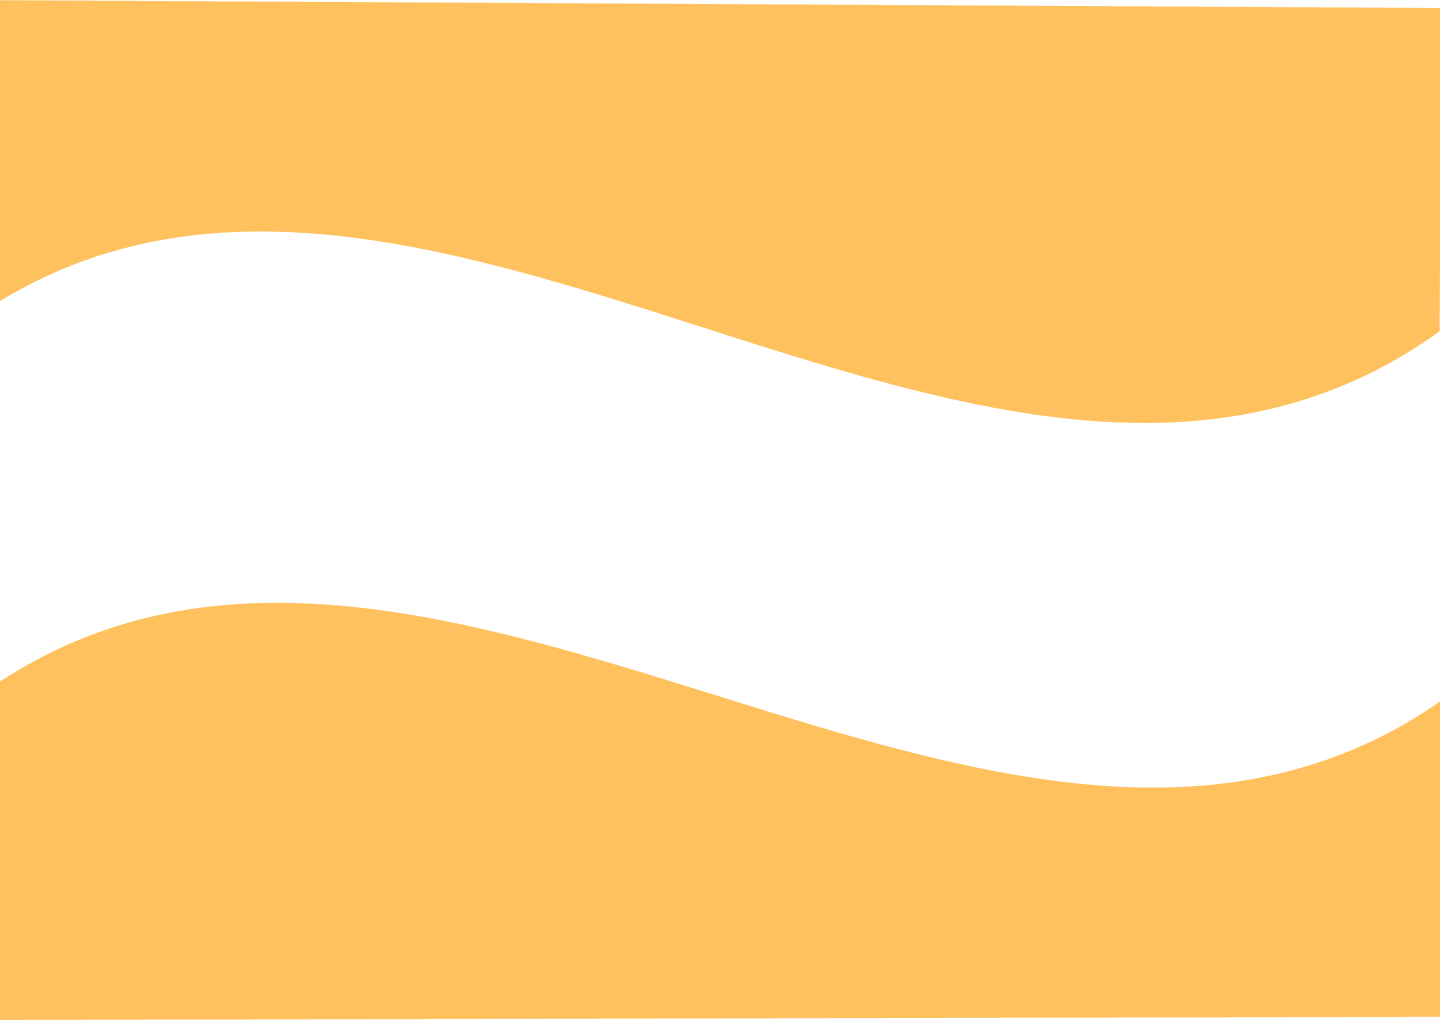
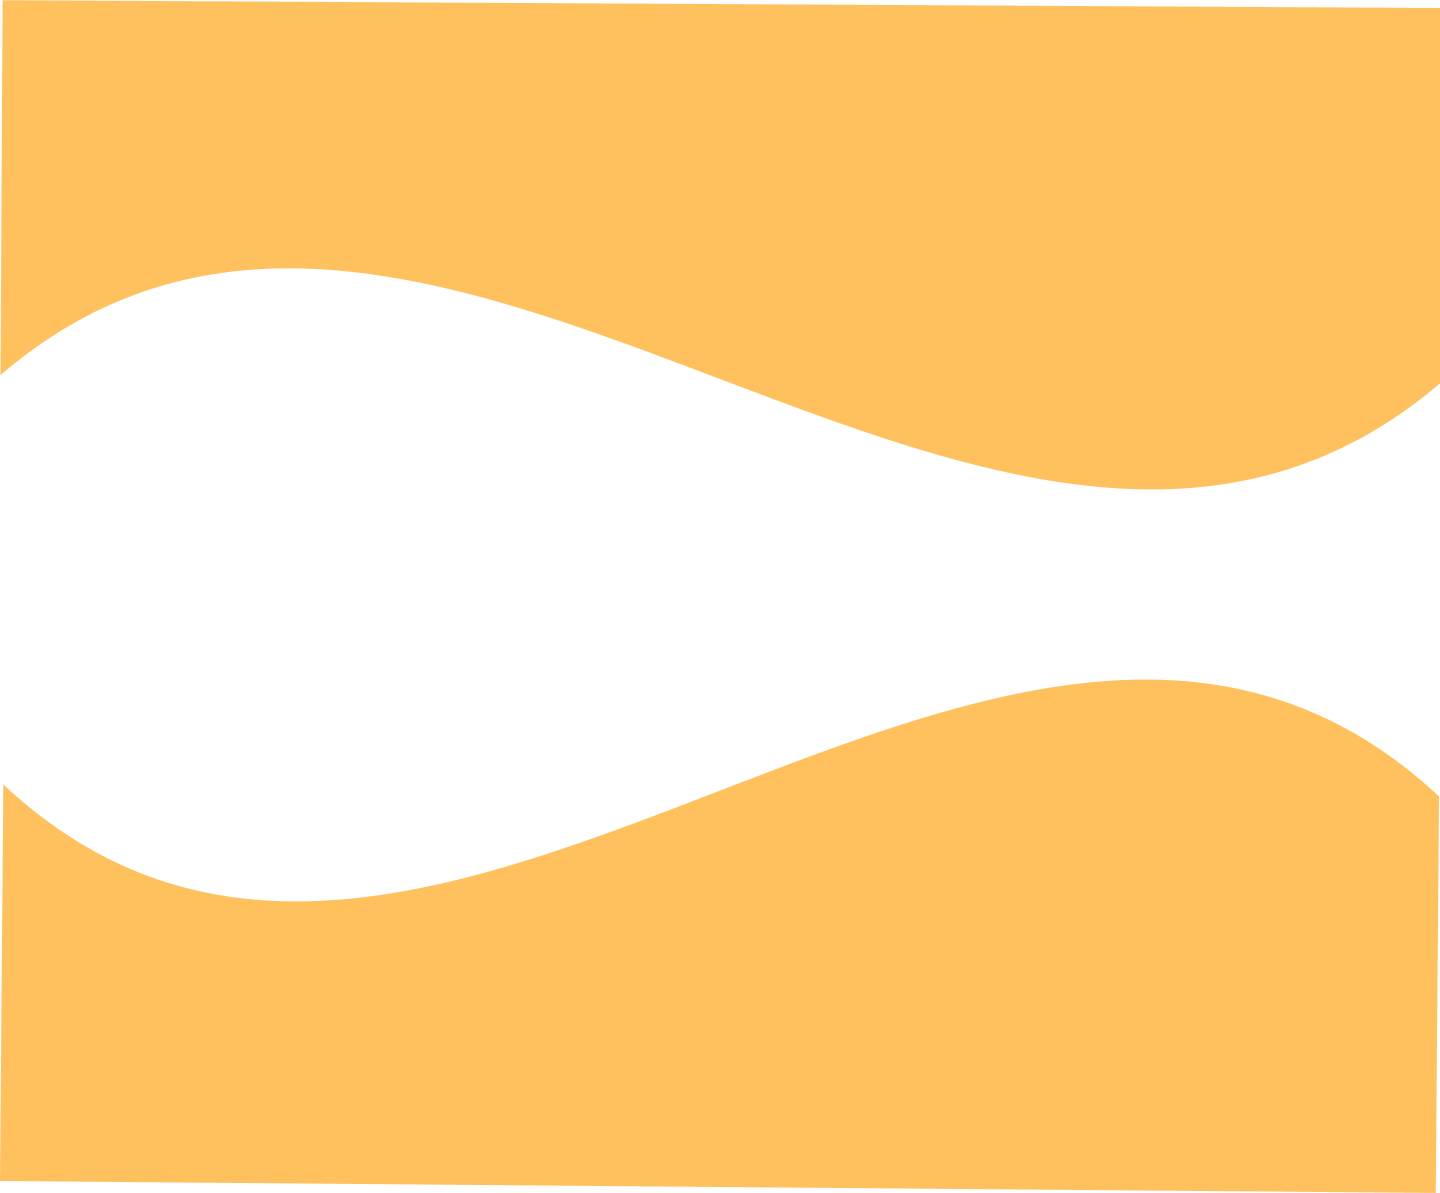
cambios

diff --git a/MansoWeb/quienessomos.html b/MansoWeb/quienessomos.html
@@ -44,7 +44,7 @@
 
     <main>
         <section class="qs__main mb-5">
-            <div class="container-fluid qs__fondo">
+            <div class="container">
                 <div class="row py-5">
                     <div class="col-12" style="color:#fff;">
                         <h1>¿Quienes somos?</h1>
@@ -55,13 +55,19 @@
                         <img src="imagenes/qs__img1.png" alt="" class="qs__img">
                     </div>
                     <div class="col-12 col-md-6 qs__texto">
-                        <p>Somos un equipo que comparte su <b>pasión por el turismo, el diseño y la programación</b>.
-                        Diseñamos y desarrollamos soluciones en las que creemos.</p>
+                        <p>Somos un equipo especializado en crear diseños <b>funcionales</b> y <b>atractivos</b>
+                            para tu hotel o alojamiento, que comparte una <b>pasión por el turismo, el diseño y la
+                                programación</b>.
+                            Diseñamos y desarrollamos soluciones en las que creemos.</p>
                     </div>
                 </div>
+
                 <div class="row p-3">
                     <div class="col-12 col-md-6 qs__texto qs__texto2">
-                        <p>Nuestro objetivo es brindarte un solución diferente, con <b>pasión</b>, <b>flexibilidad</b> y <b>compromiso</b>.</p>
+                        <p>Nuestro objetivo es brindarle un solución a las necesidades de tu negocio, con <b>pasión</b>,
+                            <b>flexibilidad</b> y <b>compromiso</b>. Priorizamos la experiencia de todos y cada uno de
+                            los usuarios que visiten tu futura página web, para lograr una mayor <b>conversión</b>.
+                        </p>
                     </div>
                     <div class="col-12 col-md-6 qs__img-container py-3">
                         <img src="imagenes/qs__img2.png" alt="" class="qs__img">

diff --git a/MansoWeb/index.html b/MansoWeb/index.html
@@ -151,7 +151,7 @@
                                 <h3>Webs para hoteles</h3>
                             </div>
                             <div class="col-12 websParaHoteles__p text-center">
-                                <p>Somos un grupo especializado en crear diseños <b>funcionales</b> y <b>atractivos</b>
+                                <p>Somos un equipo especializado en crear diseños <b>funcionales</b> y <b>atractivos</b>
                                     para tu hotel o alojamiento. <b>Conocemos el rubro</b> y priorizamos la <b>conversión</b> y la experiencia del
                                     cliente.</p>
                             </div>

diff --git a/MansoWeb/css/estilos.css b/MansoWeb/css/estilos.css
@@ -589,10 +589,9 @@ li{
     width: 50%;
 }
 
-.qs__fondo {
-    background-image: url("../imagenes/qs__fondo.png");
+.qs__main{
+    background-image:url("");
     background-size: 100% 100%;
-    background-repeat: no-repeat;
 }
 
 .qs__texto {
@@ -600,11 +599,6 @@ li{
 }
 
 @media screen and (min-width: 768px) {
-
-    .qs__intro {
-        height: 90vh;
-        background-size: 100% 100%;
-    }
 
     .qs__texto2 {
         display: flex;
